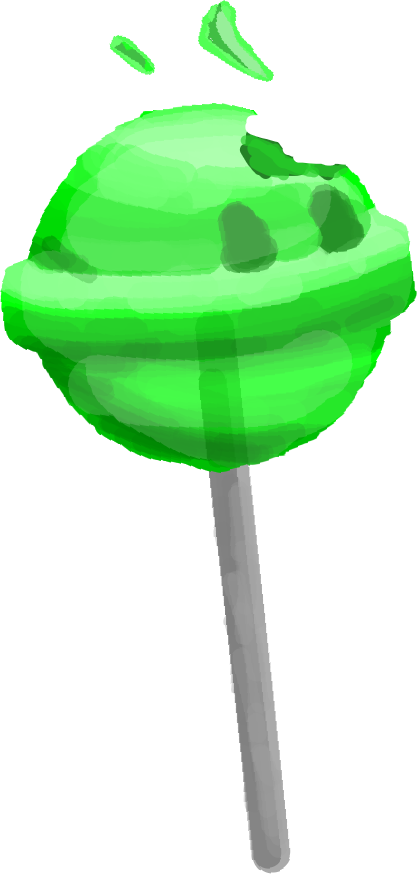
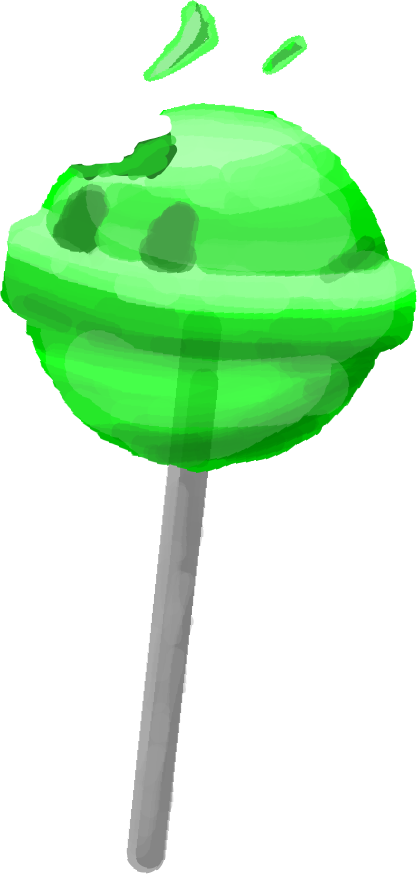
fixed the previous fix

diff --git a/Mage.cs b/Mage.cs
@@ -38,6 +38,7 @@ namespace Unicorns_Gaze
 
         public override void LoadContent(ContentManager content)
         {
+            scale= 0.2f;
             DamageRange = new DamageRange(2, 5);
             sprites[SpriteType.Standard] = content.Load<Texture2D>("lollipop idle");
             sprites[SpriteType.ChargeAttack] = content.Load<Texture2D>("notexture");

diff --git a/Player.cs b/Player.cs
@@ -39,7 +39,7 @@ namespace Unicorns_Gaze
             criticalChance = 10;
             criticalMultiplier = 1.5F;
             HeavyDamageRange = new DamageRange(5, 10);
-            scale = 0.2f;
+            scale = 0.15f;
         }
 
 
